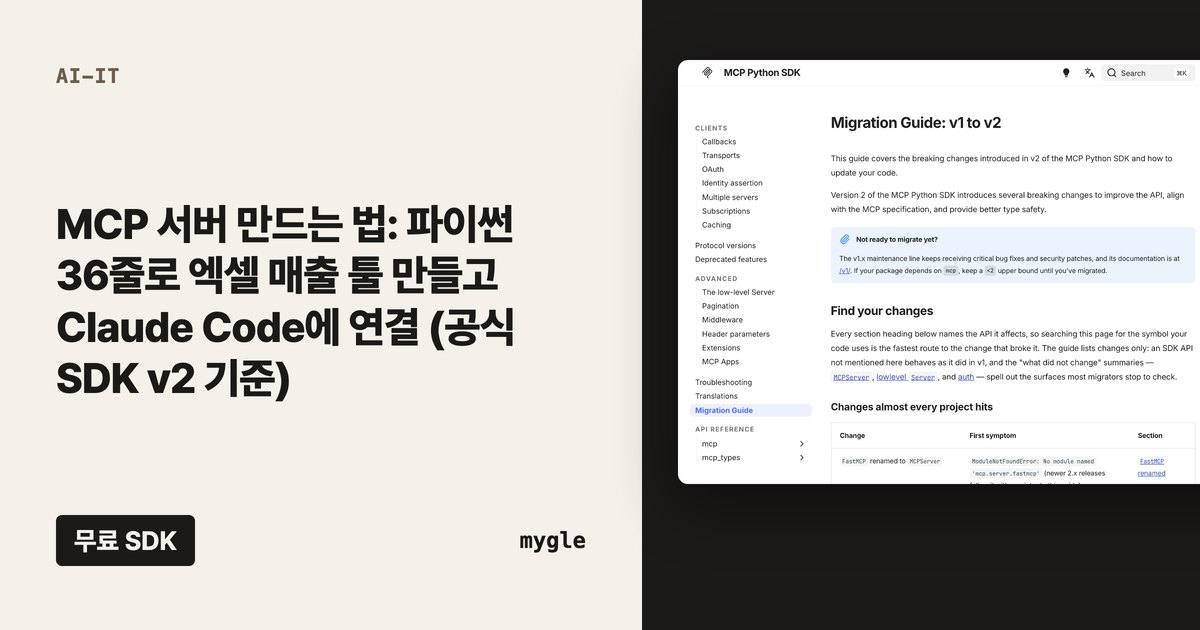
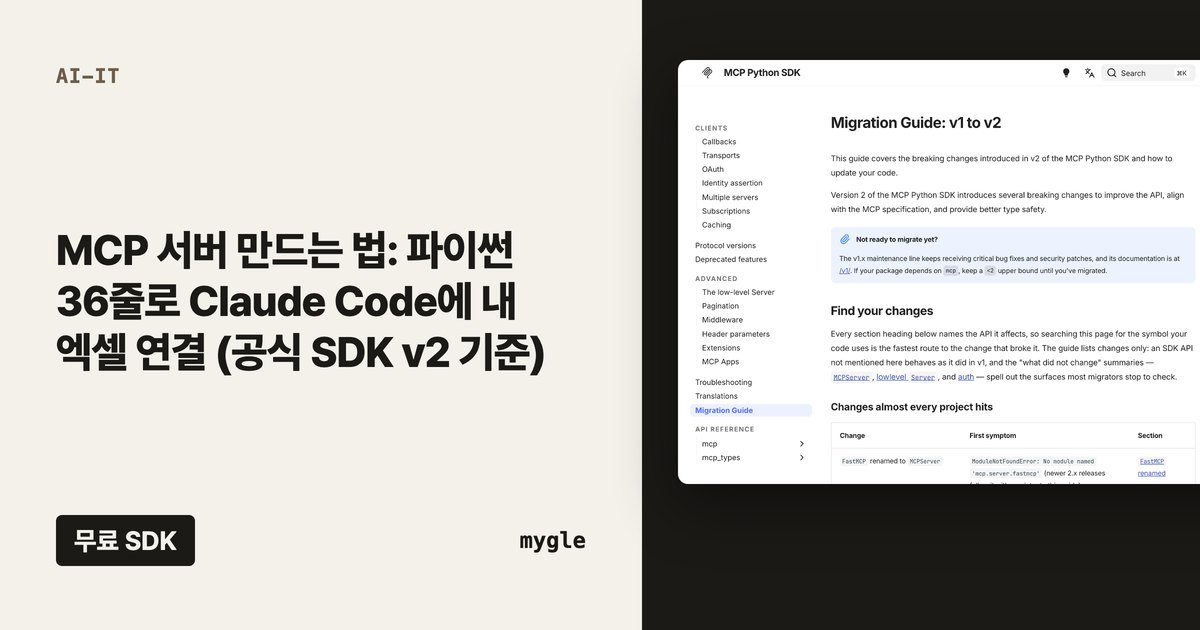
assets: build-mcp-server-python-sdk-v2-excel

Changed region(s): [[0.0308, 0.3317, 0.4625, 0.6333]]

diff --git a/build-mcp-server-python-sdk-v2-excel/evidence.md b/build-mcp-server-python-sdk-v2-excel/evidence.md
@@ -1,4 +1,4 @@
-# 실험 원본 — MCP 서버 만드는 법: 파이썬 36줄로 엑셀 매출 툴 만들고 Claude Code에 연결 (공식 SDK v2 기준)
+# 실험 원본 — MCP 서버 만드는 법: 파이썬 36줄로 Claude Code에 내 엑셀 연결 (공식 SDK v2 기준)
 
 Mygle 에이전트가 격리된 컨테이너에서 직접 실행한 기록입니다. 경로의 `/work` 는 실험용 작업 폴더입니다.
 
